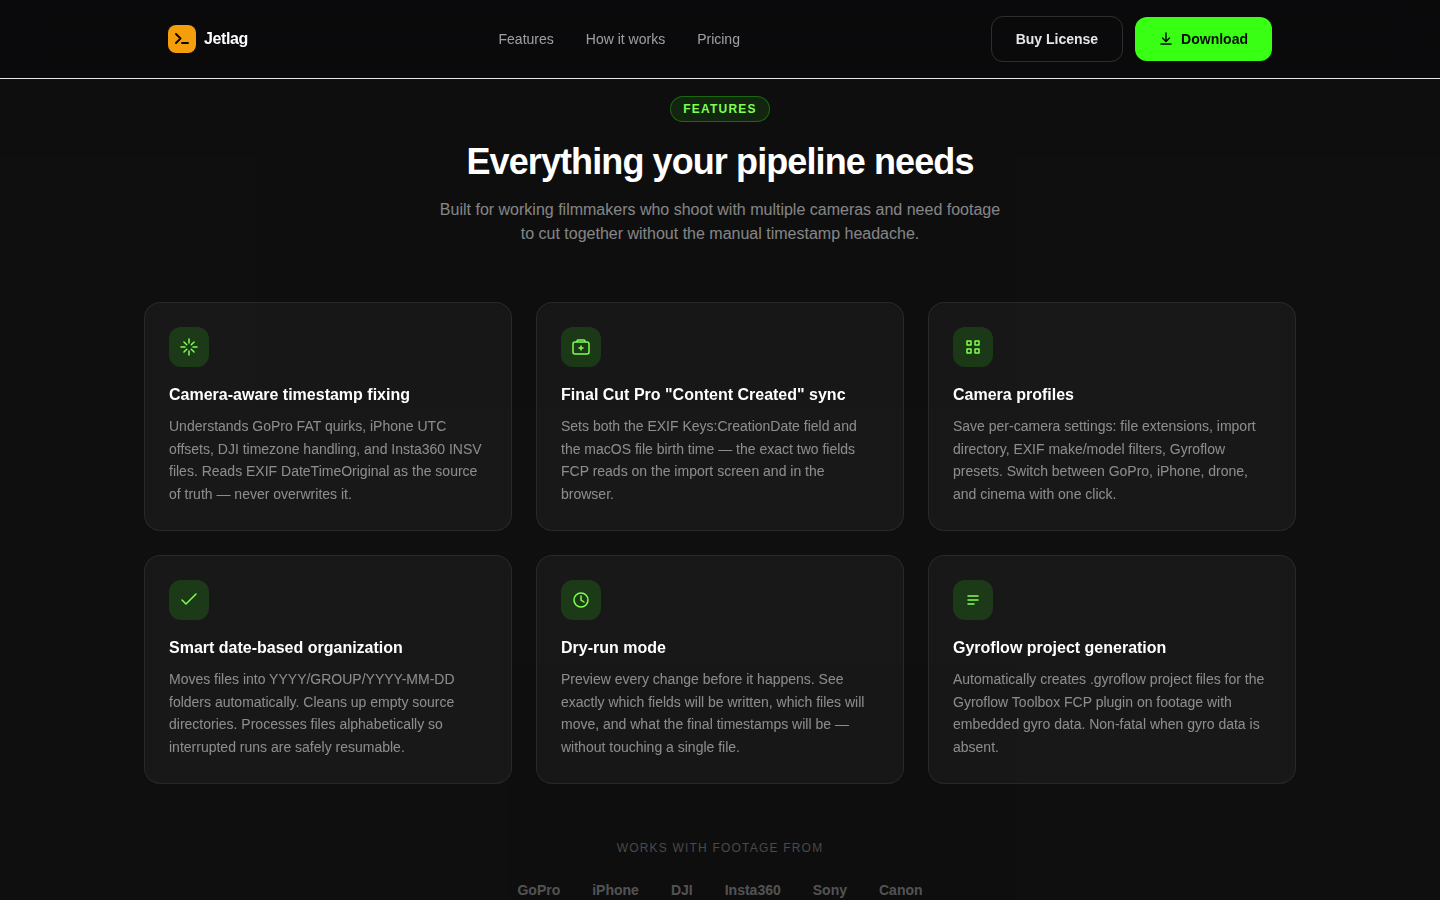
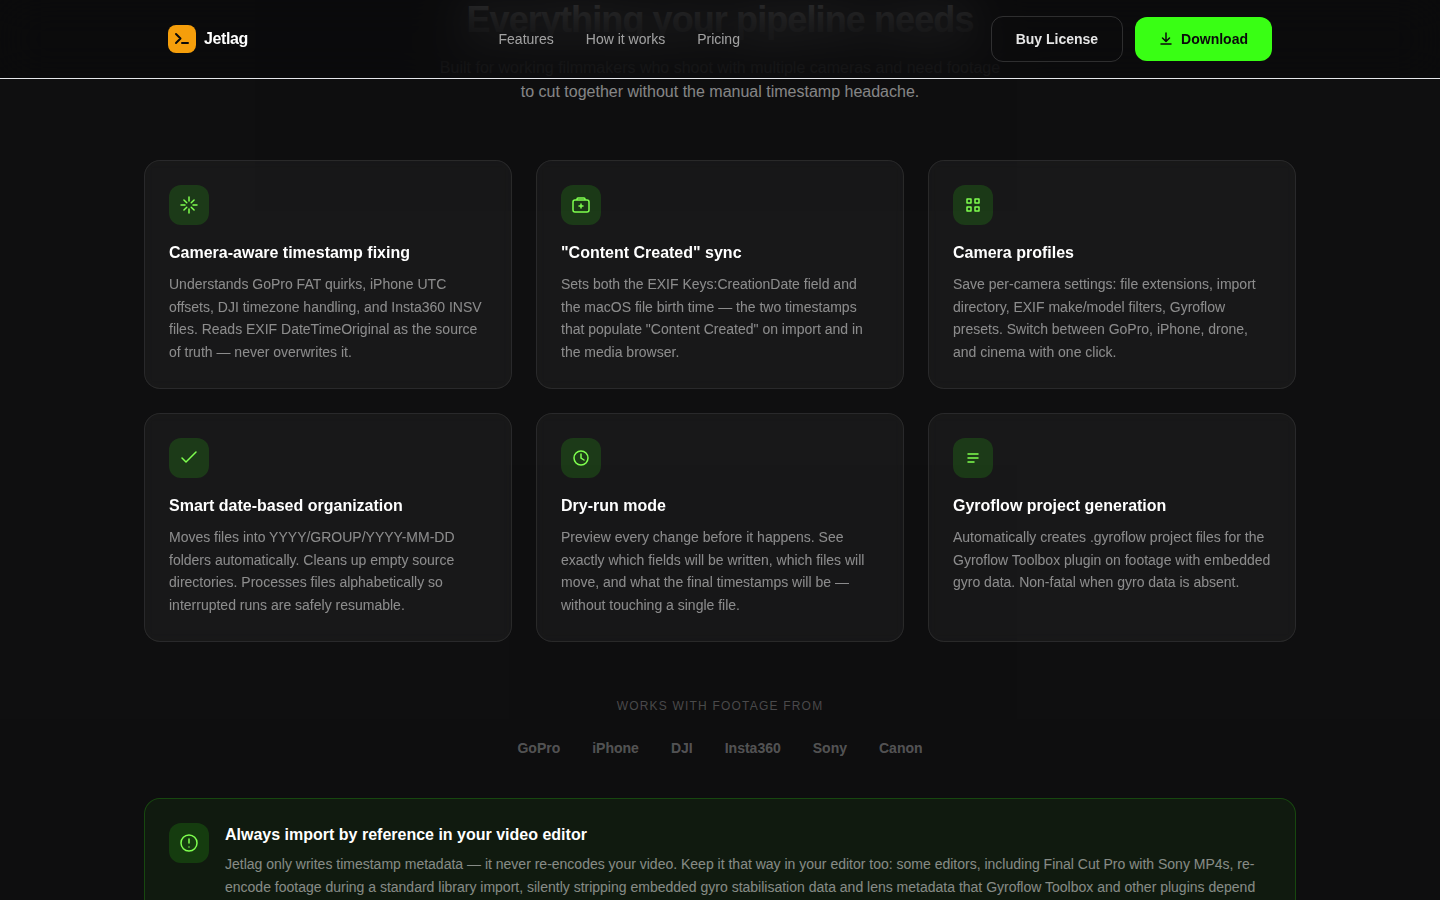
improve website copy: multi-scenario problem section, import-by-reference note (#19)
* improve website copy: multi-scenario problem section, import-by-reference note

Problem section redesigned with three real-world scenarios each showing a
before/after timeline with timezone labels in brackets:
  01 — cross-timezone shoot (Amsterdam +02:00 → Seoul +09:00, forgot to update camera)
  02 — GoPro missing timezone (iPhone 08:00, GoPro appears 7h later at copy time)
  03 — drone UTC misread as local (DJI 18:07 sunset appears at 09:07)

Each scenario has a short description, then before/after cards with clips
positioned on a 24h timeline. Timezone offset shown beneath each timestamp;
wrong offsets rendered in red. Closes with a note explaining that Jetlag
fixes timestamps relative to UTC, and can't recover clips where the device
clock itself was set to the wrong hour.

Features section: added a 7th card ('Files preserved exactly as shot') and an
'Import by reference' callout explaining that FCP re-encodes Sony MP4s on
library import, stripping gyro stabilisation and lens metadata.

Tested visually by reading the output HTML structure — no build step required.

https://claude.ai/code/session_014fBd75GSgp6v64iWGXU35b

* add screenshot workflow for web changes

Added web/screenshot.js (Playwright): builds the site, starts vite preview,
captures hero/problem/features/how-it-works sections plus full-page PNG to
web/screenshots/ with a timestamp prefix. Added `npm run screenshot` script
to web/package.json.
[…]

diff --git a/web/src/sections/problem.js b/web/src/sections/problem.js
@@ -1,71 +1,158 @@
 export function renderProblem() {
+  const colorMap = {
+    blue:   { bar: 'bg-blue-500/30 border-blue-400/20',   text: 'text-blue-300/70' },
+    green:  { bar: 'bg-green-500/30 border-green-400/20', text: 'text-green-300/70' },
+    purple: { bar: 'bg-purple-500/30 border-purple-400/20', text: 'text-purple-300/70' },
+  }
+
+  const renderClip = (clip) => {
+    const c = colorMap[clip.color]
+    const tzClass = clip.correct ? 'text-white/25' : 'text-red-400/70'
+    return /* html */`
+      <div class="flex items-center gap-3">
+        <div class="w-28 text-right font-mono leading-tight flex-shrink-0">
+          <div class="text-xs text-white/35">${clip.time}</div>
+          <div class="text-[10px] ${tzClass}">${clip.tz}</div>
+        </div>
+        <div class="h-7 rounded ${c.bar} ${c.text} border flex items-center px-2.5 text-[11px] overflow-hidden"
+             style="width:${clip.width}px; margin-left:${clip.offset}px; flex-shrink:0">${clip.file}</div>
+      </div>
+    `
+  }
+
+  const renderCard = (card, isAfter) => {
+    const dot        = isAfter ? 'bg-amber-400'      : 'bg-red-400'
+    const labelClass = isAfter ? 'text-amber-400/80' : 'text-red-400/80'
+    const label      = isAfter ? 'After Jetlag'      : 'Before Jetlag'
+    const cardClass  = isAfter ? 'card border-amber-500/20 bg-amber-500/5' : 'card'
+    const capClass   = isAfter ? 'text-amber-400/60' : 'text-white/30'
+    return /* html */`
+      <div class="${cardClass}">
+        <div class="mb-3 flex items-center gap-2">
+          <div class="h-2 w-2 rounded-full ${dot}"></div>
+          <span class="text-xs font-semibold uppercase tracking-widest ${labelClass}">${label}</span>
+        </div>
+        <div class="space-y-3">
+          ${card.clips.map(renderClip).join('')}
+        </div>
+        <p class="mt-3 text-xs ${capClass}">${card.caption}</p>
+      </div>
+    `
+  }
+
+  // Timeline uses a 24-hour scale mapped to ~250px usable width.
+  // offset = Math.round((h*60+m) / 1440 * 250)
+  const scenarios = [
+    {
+      num: '01',
+      title: 'Crossed a timezone, forgot to update the camera',
+      body: `Flying from Amsterdam (+02:00) to Seoul (+09:00) for the next leg of a food trip, you forget to update the GoPro. Day two footage shot at 09:07am Seoul time reads as 02:07am in your editor — appearing to have been shot in the middle of the previous night, before clips from the day before.`,
+      before: {
+        clips: [
+          { time: '14:12', tz: '[+02:00]',    correct: true,  file: 'amsterdam_day1.MP4', color: 'blue',  width: 130, offset: 148 },
+          { time: '02:07', tz: '[+02:00  ✗]', correct: false, file: 'seoul_day2.MP4',     color: 'green', width: 110, offset: 22  },
+        ],
+        caption: 'Seoul footage appears at 2am — camera clock never left Amsterdam',
+      },
+      after: {
+        clips: [
+          { time: '14:12', tz: '[+02:00]', correct: true, file: 'amsterdam_day1.MP4', color: 'blue',  width: 130, offset: 148 },
+          { time: '09:07', tz: '[+09:00]', correct: true, file: 'seoul_day2.MP4',     color: 'green', width: 110, offset: 95  },
+        ],
+        caption: 'Jetlag applies +09:00 — Seoul footage correctly placed in the morning',
+      },
+    },
+    {
+      num: '02',
+      title: 'GoPro shot ten minutes after iPhone — appearing seven hours later',
+      body: `You shoot a market stall on your iPhone at 08:00, then pull out the GoPro ten minutes later. GoPro doesn't embed a timezone in DateTimeOriginal. Your editor falls back to the file's birth time, which gets set to whenever you copied the SD card — hours after the fact. The right time is in the file; it just needs pairing with your timezone.`,
+      before: {
+        clips: [
+          { time: '08:00', tz: '[+08:00]',  correct: true,  file: 'IMG_0812.MOV', color: 'green', width: 115, offset: 83  },
+          { time: '15:43', tz: '[no tz  ✗]', correct: false, file: 'GH012345.MP4', color: 'blue',  width: 115, offset: 164 },
+        ],
+        caption: '7h 43m gap — GoPro birth time set at copy, not at capture',
+      },
+      after: {
+        clips: [
+          { time: '08:00', tz: '[+08:00]', correct: true, file: 'IMG_0812.MOV', color: 'green', width: 115, offset: 83 },
+          { time: '08:10', tz: '[+08:00]', correct: true, file: 'GH012345.MP4', color: 'blue',  width: 115, offset: 85 },
+        ],
+        caption: 'GoPro lands 10 minutes after iPhone, exactly as shot',
+      },
+    },
+    {
+      num: '03',
+      title: 'Drone footage offset by an entire timezone',
+      body: `DJI drones store MediaCreateDate in UTC. Many editors read that integer field and treat it as local time. Shoot at sunset (18:07) in Tokyo (+09:00) and the clip lands at 09:07 — nine hours early, as if filmed before dawn. The same issue affects any camera that correctly stores UTC but whose timezone context is then lost on import.`,
+      before: {
+        clips: [
+          { time: '18:07', tz: '[+09:00]',       correct: true,  file: 'iphone_sunset.MOV', color: 'green',  width: 115, offset: 189 },
+          { time: '09:07', tz: '[UTC→local  ✗]', correct: false, file: 'DJI_0011.MP4',       color: 'purple', width: 100, offset: 95  },
+        ],
+        caption: 'Drone appears 9 hours early — UTC timestamp misread as local time',
+      },
+      after: {
+        clips: [
+          { time: '18:07', tz: '[+09:00]', correct: true, file: 'iphone_sunset.MOV', color: 'green',  width: 115, offset: 189 },
+          { time: '18:09', tz: '[+09:00]', correct: true, file: 'DJI_0011.MP4',      color: 'purple', width: 100, offset: 191 },
+        ],
+        caption: 'Drone and iPhone land at the same sunset moment',
+      },
+    },
+  ]
+
   return /* html */`
     <section class="py-24 px-6">
       <div class="mx-auto max-w-5xl">
-        <div class="grid gap-12 lg:grid-cols-2 lg:items-center">
-          <!-- Text side -->
-          <div>
-            <span class="section-label">The Problem</span>
-            <h2 class="mt-5 text-3xl font-bold tracking-tight sm:text-4xl">
-              Cameras lie about time
-            </h2>
-            <p class="mt-4 text-base leading-relaxed text-white/55">
-              GoPro stores timestamps in FAT filesystem time — no timezone info. Your iPhone records in UTC.
-              Your drone adds a different offset. By the time you import to your video editor, every clip is
-              hours apart in the timeline, even though they were all rolling at the same moment.
-            </p>
-            <p class="mt-4 text-base leading-relaxed text-white/55">
-              You end up manually dragging clips around for hours, second-guessing every cut.
-            </p>
-          </div>
 
-          <!-- Visual side — before/after timeline -->
-          <div class="space-y-4">
-            <div class="card">
-              <div class="mb-3 flex items-center gap-2">
-                <div class="h-2 w-2 rounded-full bg-red-400"></div>
-                <span class="text-xs font-semibold uppercase tracking-widest text-red-400/80">Before Jetlag</span>
-              </div>
-              <div class="space-y-2">
-                <div class="flex items-center gap-3">
-                  <span class="w-20 text-right text-xs text-white/30 font-mono">08:07</span>
-                  <div class="h-7 rounded bg-blue-500/30 border border-blue-400/20 flex items-center px-3 text-xs text-blue-300/70" style="width: 140px">GH012345.MP4</div>
-                </div>
-                <div class="flex items-center gap-3">
-                  <span class="w-20 text-right text-xs text-white/30 font-mono">15:09</span>
-                  <div class="h-7 rounded bg-green-500/30 border border-green-400/20 flex items-center px-3 text-xs text-green-300/70" style="width: 100px; margin-left: 180px">IMG_0923.MOV</div>
-                </div>
-                <div class="flex items-center gap-3">
-                  <span class="w-20 text-right text-xs text-white/30 font-mono">23:11</span>
-                  <div class="h-7 rounded bg-purple-500/30 border border-purple-400/20 flex items-center px-3 text-xs text-purple-300/70" style="width: 90px; margin-left: 320px">DJI_0011.MP4</div>
-                </div>
-              </div>
-              <p class="mt-3 text-xs text-white/30">Clips spread across 15 hours of phantom timeline</p>
-            </div>
-
-            <div class="card border-amber-500/20 bg-amber-500/5">
-              <div class="mb-3 flex items-center gap-2">
-                <div class="h-2 w-2 rounded-full bg-amber-400"></div>
-                <span class="text-xs font-semibold uppercase tracking-widest text-amber-400/80">After Jetlag</span>
-              </div>
-              <div class="space-y-2">
-                <div class="flex items-center gap-3">
-                  <span class="w-20 text-right text-xs text-white/30 font-mono">08:07</span>
-                  <div class="h-7 rounded bg-blue-500/30 border border-blue-400/20 flex items-center px-3 text-xs text-blue-300/70" style="width: 140px">GH012345.MP4</div>
-                </div>
-                <div class="flex items-center gap-3">
-                  <span class="w-20 text-right text-xs text-white/30 font-mono">08:09</span>
-                  <div class="h-7 rounded bg-green-500/30 border border-green-400/20 flex items-center px-3 text-xs text-green-300/70" style="width: 100px; margin-left: 14px">IMG_0923.MOV</div>
-                </div>
-                <div class="flex items-center gap-3">
-                  <span class="w-20 text-right text-xs text-white/30 font-mono">08:11</span>
-                  <div class="h-7 rounded bg-purple-500/30 border border-purple-400/20 flex items-center px-3 text-xs text-purple-300/70" style="width: 90px; margin-left: 28px">DJI_0011.MP4</div>
-                </div>
-              </div>
-              <p class="mt-3 text-xs text-amber-400/60">All cameras aligned within seconds of each other</p>
-            </div>
-          </div>
+        <!-- Section header -->
+        <div class="mb-16 text-center">
+          <span class="section-label">The Problem</span>
+          <h2 class="mt-5 text-3xl font-bold tracking-tight sm:text-4xl">
+            Cameras lie about time
+          </h2>
+          <p class="mt-4 mx-auto max-w-2xl text-base leading-relaxed text-white/55">
+            Every camera stores timestamps differently — different fields, different timezone handling,
+            different filesystem quirks. The result is always the same: footage from the same shoot
+            scattered hours apart in your editor's timeline.
+          </p>
         </div>
+
+        <!-- Scenarios -->
+        <div class="space-y-14">
+          ${scenarios.map(s => /* html */`
+            <div>
+              <div class="mb-5 flex gap-3 items-start">
+                <span class="mt-0.5 flex-shrink-0 font-mono text-xs font-bold text-amber-500/60 border border-amber-500/20 rounded px-1.5 py-0.5 leading-tight">${s.num}</span>
+                <div>
+                  <h3 class="text-base font-semibold text-white mb-1.5">${s.title}</h3>
+                  <p class="text-sm leading-relaxed text-white/50 max-w-2xl">${s.body}</p>
+                </div>
+              </div>
+              <div class="grid gap-4 sm:grid-cols-2 overflow-x-auto">
+                ${renderCard(s.before, false)}
+                ${renderCard(s.after, true)}
+              </div>
+            </div>
+          `).join('')}
+        </div>
+
+        <!-- What Jetlag actually fixes -->
+        <div class="mt-14 rounded-2xl border border-white/8 bg-white/3 px-6 py-5 space-y-2">
+          <p class="text-sm leading-relaxed text-white/45">
+            <span class="font-semibold text-white/70">What actually gets corrected.</span>
+            Jetlag fixes timezone labelling relative to UTC — a clip shot at 10am in Seoul is stamped
+            10:00+09:00 (01:00 UTC). It will display as 10am in Seoul, 2am in Berlin, 6pm the day before
+            in New York — wherever your editor's timezone is set. Clips slot into the timeline at the
+            moment they were captured, correctly relative to each other.
+          </p>
+          <p class="text-sm leading-relaxed text-white/35">
+            What can't be fixed: if your device clock was set to the wrong hour — not just the wrong
+            timezone — there's no metadata to recover the true capture time from.
+          </p>
+        </div>
+
       </div>
     </section>
   `

diff --git a/web/screenshot.js b/web/screenshot.js
@@ -1,0 +1,94 @@
+/**
+ * Take screenshots of the Jetlag website for review after web changes.
+ * Builds the site, starts a preview server, captures key sections, then exits.
+ *
+ * Usage:
+ *   node web/screenshot.js              # saves to web/screenshots/
+ *   node web/screenshot.js --section problem   # specific section only
+ *
+ * Requires: npm install has been run in web/, and a Chromium browser is available.
+ * If Playwright's bundled browser is missing, install it: npx playwright install chromium
+ */
+
+import { chromium } from 'playwright'
+import { spawn, execSync } from 'child_process'
+import { fileURLToPath } from 'url'
+import { dirname, join } from 'path'
+import { mkdirSync } from 'fs'
+
+const __dirname = dirname(fileURLToPath(import.meta.url))
+const screenshotsDir = join(__dirname, '..', 'design', 'screenshots')
+mkdirSync(screenshotsDir, { recursive: true })
+
+const sectionArg = process.argv.includes('--section')
+  ? process.argv[process.argv.indexOf('--section') + 1]
+  : null
+
+// Build
+console.log('Building…')
+execSync('npm run build', { cwd: __dirname, stdio: 'inherit' })
+
+// Start preview server
+const server = spawn('npx', ['vite', 'preview', '--port', '4173', '--strictPort'], {
+  cwd: __dirname,
+  stdio: ['ignore', 'pipe', 'pipe'],
+})
+
+await new Promise((resolve, reject) => {
+  const timeout = setTimeout(() => reject(new Error('Preview server did not start in time')), 10_000)
+  server.stdout.on('data', (data) => {
+    if (data.toString().includes('4173')) { clearTimeout(timeout); resolve() }
+  })
+  server.stderr.on('data', (data) => {
+    if (data.toString().includes('4173')) { clearTimeout(timeout); resolve() }
+  })
+  server.on('error', reject)
+})
+
+// Use a pre-installed Chromium if the bundled headless shell is absent
+const chromiumPath = '/root/.cache/ms-playwright/chromium-1194/chrome-linux/chrome'
+const browser = await chromium.launch({ executablePath: chromiumPath })
+const page = await browser.newPage()
+await page.setViewportSize({ width: 1440, height: 900 })
+await page.goto('http://localhost:4173')
+await page.waitForLoadState('networkidle')
+
+// Dismiss any animations so screenshots are stable
+await page.addStyleTag({ content: '*, *::before, *::after { animation-duration: 0s !important; transition-duration: 0s !important; opacity: 1 !important; }' })
+await page.waitForTimeout(300)
+
+const saved = []
+
+const sections = [
+  { name: 'hero',         selector: 'section:nth-of-type(1)' },
+  { name: 'problem',      selector: 'section:nth-of-type(2)' },
+  { name: 'features',     selector: '#features' },
+  { name: 'how-it-works', selector: '#how-it-works' },
+]
+
+const toCapture = sectionArg
+  ? sections.filter(s => s.name === sectionArg)
+  : sections
+
+for (const { name, selector } of toCapture) {
+  const el = page.locator(selector).first()
+  await el.scrollIntoViewIfNeeded()
+  await page.waitForTimeout(100)
+  const outPath = join(screenshotsDir, `${name}.png`)
+  await page.screenshot({ path: outPath })
+  saved.push(outPath)
+  console.log(`  saved: ${outPath}`)
+}
+
+// Full page last (slow)
+if (!sectionArg) {
+  const fullPath = join(screenshotsDir, 'full.png')
+  await page.screenshot({ path: fullPath, fullPage: true })
+  saved.push(fullPath)
+  console.log(`  saved: ${fullPath}`)
+}
+
+await browser.close()
+server.kill()
+
+console.log(`\nDone — ${saved.length} screenshot(s) in web/screenshots/`)

diff --git a/web/src/sections/features.js b/web/src/sections/features.js
@@ -65,6 +65,30 @@ export function renderFeatures() {
             `).join('')}
           </div>
         </div>
+
+        <!-- Import by reference callout -->
+        <div class="mt-10 rounded-2xl border border-amber-500/20 bg-amber-500/5 p-6">
+          <div class="flex gap-4 items-start">
+            <div class="feature-icon flex-shrink-0">
+              <svg width="20" height="20" viewBox="0 0 20 20" fill="none" xmlns="http://www.w3.org/2000/svg" aria-hidden="true">
+                <path d="M10 6v4M10 14h.01" stroke="currentColor" stroke-width="1.5" stroke-linecap="round"/>
+                <circle cx="10" cy="10" r="8" stroke="currentColor" stroke-width="1.5"/>
+              </svg>
+            </div>
+            <div>
+              <h3 class="text-base font-semibold text-white mb-1.5">Always import by reference in your video editor</h3>
+              <p class="text-sm leading-relaxed text-white/50">
+                Jetlag only writes timestamp metadata — it never re-encodes your video. Keep it that way
+                in your editor too: some editors, including Final Cut Pro with Sony MP4s, re-encode footage
+                during a standard library import, silently stripping embedded gyro stabilisation data and
+                lens metadata that Gyroflow Toolbox and other plugins depend on. Import by reference instead
+                (uncheck <span class="text-white/70 font-medium">"Copy to Library"</span> in FCP's import
+                dialog) to keep your files exactly as shot, with all metadata intact.
+              </p>
+            </div>
+          </div>
+        </div>
+
       </div>
     </section>
   `

diff --git a/CLAUDE.md b/CLAUDE.md
@@ -5,7 +5,13 @@
 - LAYOUT — two sibling components at repo root:
   - scripts/ — Python/shell scripts, lib/, media-profiles.yaml, tests/. Work standalone with no knowledge of the app.
   - macos/ — SwiftUI app. Sibling to scripts/, NOT nested inside it. Reads media-profiles.yaml and launches scripts.
+  - web/ — Vite + Tailwind marketing site. Sections live in web/src/sections/.
   - docs/ — documentation. CLAUDE.md, README.md, TODO.md live at repo root.
+- WEB — after every change to files under web/:
+  - take screenshots before committing: `npm run screenshot --prefix web` (or `cd web && npm run screenshot`)
+  - this builds the site, starts a preview server, captures hero/problem/features/how-it-works sections plus a full-page shot, overwrites PNGs in design/screenshots/ (fixed names so each commit shows a visual diff)
+  - read and share each saved screenshot image with the user using the Read tool before committing, so they can review the rendered output
+  - if the Playwright browser is missing: `npx playwright install chromium` inside web/
 - the goal of these scripts are to manage workflow for importing videos from different cameras, so that they all appear interleaved with each other in your video editor at the time at which they were initially filmed.
 - the time doesn't have to look the same as if I shot it, but the goal is for the files to maintain time relative to each other
 - timezone is the timezone a group of videos is shot in, but is a concern unrelated to the profiles in media-profiles which are camera profiles and could be shot in any number of timezones.
